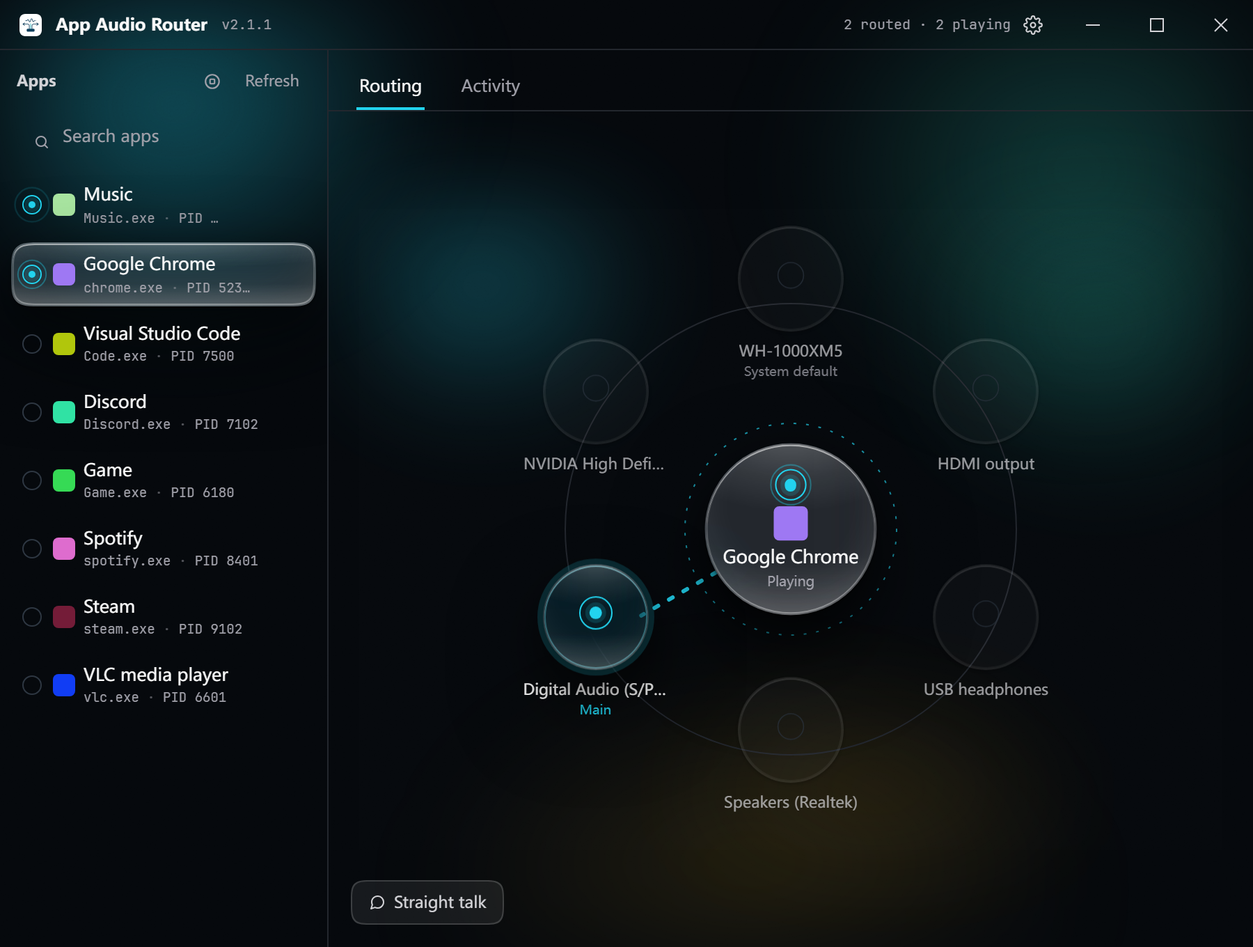
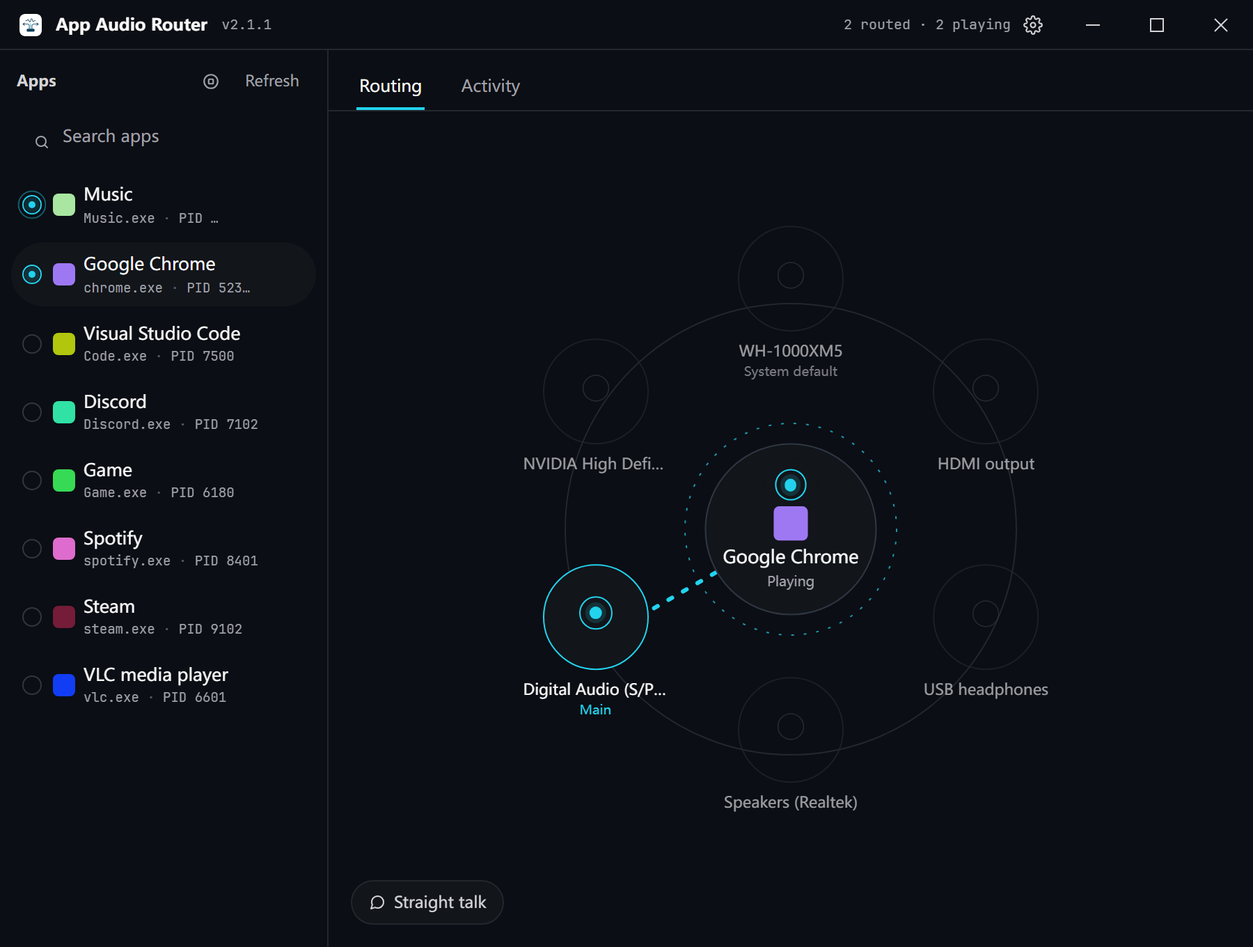
docs: describe the flat material; recapture screenshots
AGENTS.md now documents solid panels + hairlines + the one float
shadow and warns against re-introducing the glass; both READMEs
drop the glass wording and carry fresh light/dark captures.

diff --git a/AGENTS.md b/AGENTS.md
@@ -56,14 +56,14 @@ AppAudioRouter/
 │   ├── main.tsx
 │   ├── App.tsx
 │   ├── components/         # UI 组件
-│   │   ├── ConcentricStage.tsx   # 同心圆舞台，也是路由唯一被表达的地方：中心是被选中的那个程序（Hub），每台输出设备一枚环绕它的玻璃圆盘（Satellite），每枚参与路由的圆盘与中心之间一根辐条；内含 Tuner（副本=延迟+份额两行，主输出=会话音量一行）
+│   │   ├── ConcentricStage.tsx   # 同心圆舞台，也是路由唯一被表达的地方：中心是被选中的那个程序（Hub），每台输出设备一枚环绕它的圆盘（Satellite），每枚参与路由的圆盘与中心之间一根辐条；内含 Tuner（副本=延迟+份额两行，主输出=会话音量一行）
 │   │   ├── ProgramRail.tsx       # 左栏程序列表：每行一个正在出声的程序，行末那颗圆形开关「同时更改此程序的输出」取代了 Ctrl+点击
 │   │   ├── StatusBriefing.tsx    # 「直说」按钮 + 现状气泡：点一下就用大白话说清此刻每个程序从哪儿出声；按钮的完整名字放自制的 ui/Tooltip
 │   │   ├── SourceLevelDial.tsx   # 中心圆盘下方的每程序电平环（0–400 %，套 ScrubReadout 的 lead 槽画环），只在多设备路由时挂载
 │   │   ├── Toast.tsx             # 瞬态提示：路由后提供「撤销」（全项目唯一的撤销入口）
 │   │   ├── SettingsPage.tsx      # 设置独立页面（主题/语言/路由开关/已记忆路由列表/每应用音频重置/后台开关/延迟范围·步进/一键对齐/关于）
 │   │   ├── LogPanel.tsx          # 活动记录（下划线标签页的第二页）
-│   │   ├── TitleBar.tsx    # 自定义标题栏（透明，极光从它底下过：品牌 + 「已路由 · 播放中」计数 + 设置入口 + 窗口控制）
+│   │   ├── TitleBar.tsx    # 自定义标题栏（透明，舞台从它底下过：品牌 + 「已路由 · 播放中」计数 + 设置入口 + 窗口控制）
 │   │   ├── StartupNoticeDialog.tsx  # 启动提示弹窗（欢迎语 / 旧版本提示 + 就地重置）
 │   │   └── ui/             # 基础控件
 │   │       ├── Ring.tsx                # 同心圆指示器：外环说"它是什么"，内芯说"它在不正在响"；全项目共用这一枚
@@ -73,7 +73,7 @@ AppAudioRouter/
 │   │       ├── SegmentedControl.tsx    # 下划线式分段控件（不是胶囊，也不是 pill track）
 │   │       ├── ScrubReadout.tsx        # 通用「数值即控件」（拖动/滚轮/方向键/键入），电平环在用；lead 槽可在数字前挂一个跟随预览值的图形
 │   │       ├── StepButton.tsx          # 方形 ± 按钮（h-6 w-6，仅设置页在用）
-│   │       ├── Tooltip.tsx             # 自制 tooltip（native `title` 迟、不可样式化、测试不可见）：悬停/聚焦稍作停留即出现；实体底，不走 backdrop-filter
+│   │       ├── Tooltip.tsx             # 自制 tooltip（native `title` 迟、不可样式化、测试不可见）：悬停/聚焦稍作停留即出现；实体底
 │   │       ├── ConfirmButton.tsx       # 二次确认按钮（先「确认？」再执行；Escape/失焦/超时解除）
 │   │       └── DelayStepper.tsx        # 设置页的延迟行控件（−/数值/+ 方框样式）
 │   ├── hooks/              # 自定义 hooks
@@ -81,7 +81,6 @@ AppAudioRouter/
 │   │   ├── useLanguage.ts
 │   │   ├── useDelayValue.ts  # 延迟编辑状态（草稿/提交/步进），两个延迟控件共用
 │   │   ├── useLiveness.ts    # 声流闸门：窗口可见 + 持有焦点 + 未要求减少动效；三者任一不满足返回 false
-│   │   ├── useGlassSpecular.ts # 玻璃高光跟指针：一个委托 pointermove 写 --gx/--gy 到悬停的面板
 │   │   └── useBackendEvent.ts # 后端事件订阅（StrictMode 安全的 token 交接），四个事件共用
 │   ├── stores/             # 状态管理
 │   │   └── routerStore.ts  # Zustand store
@@ -339,42 +338,27 @@ AppAudioRouter/
 - 主题切换通过 `document.documentElement.classList.toggle('dark')`
 - 持久化用户偏好到 `localStorage` + 跟随系统初始值
 - 色板为青色（cyan）信号色，不用靛紫/紫罗兰；改色时 `:root` / `.dark` 两份定义与 `--*-rgb` 镜像通道必须一起改（`--bg-primary` / `--text-primary` 还在 `index.html` 里各有一份首帧内联副本，也要同步）
-- **这套界面是液态玻璃做的**：程序行、舞台上的圆盘与枢纽、现状气泡、Toast、弹窗，凡是"浮起来"的东西都穿 `--glass*`
-  那一组令牌。液态玻璃 = 一块**厚透镜**，不是磨砂片：它保持通透（填充 alpha 很低，靠 `--glass-filter` 的 blur+saturate+brightness 折射背后的光）、
-  顶部有一枚**紧而亮的高光**（光源的镜面反射，`--glass-specular*` 的第一层 radial）、底部有一道**焦散亮线**与** trapped 在内部的光池**
-  （`--glass-specular*` 的第二层 + `--glass-rim*` 的 inset 底部两条）、**整圈 rim catch 一条细亮边**（`--glass-rim*` 的 `inset 0 0 0 1px`），
-  再加**分层影子**（`--glass-shadow` = 接触/中层/环境）。这四件——高光、焦散+光池、rim、分层影——缺一件就退回磨砂塑料；
-  一团均匀 alpha 填充 + 一团均匀软影就是贴纸。lit discs 的 inline `box-shadow` 引 `--glass-rim` / `--glass-shadow` 这两个令牌，别各写一份。
-  **第二种厚度是同一种玻璃的薄片**（`.glass-thin`）：没接线的设备圆盘、没有计划的中心枢纽用更少的填充、更淡的 rim、只留接触影，
-  贴着表面；于是"厚而亮的透镜"这个语义只留给正在生效的东西。别把 idle 也改成 `.glass-strong`。
-  ⚠ **`backdrop-filter` 底下必须有东西可折射**：App 根节点那层 `.aurora`（三个推到失焦之外的光池）存在的唯一理由就是这个——
-  对着一块纯色做模糊，出来的是磨砂塑料。光池要**保持分离**（尺寸/位置见 `.aurora`）：糊成整片均匀渐变后，每块玻璃折射到的颜色都一样，折射就没了。
-  极光**静止**（画一次，永不重绘）：它可以存在，但它不许动。极光上另覆一层**静态颗粒**（`.grain`，overlay 混合）——
-  这么平滑的渐变不带颗粒就是矢量渐变，矢量渐变读起来就是塑料；颗粒只调制底下的光，自己不动。
-- **低配档（`html.glass-lite`，2026-10-04 起）**：同一块玻璃**去掉折射**的档位。判定与开关在 `lib/glassLite.ts`：
-  `aar-glass-lite`（localStorage）存用户的显式选择；没有选择时，弱硬件（`hardwareConcurrency ≤ 4` 或 `deviceMemory ≤ 4`）
-  或 Windows 关闭「透明效果」（`prefers-reduced-transparency`）**自动启用**。`index.html` 的启动脚本在**首帧之前**就把类套上
-  （与主题同一条规矩：不许先画一帧模糊再变实底），它和 TS 侧是两份逻辑，改判定必须两处同步。
-  - 档位的内容只有三件事：`--glass-filter` 归 `none`（亮/暗两份覆盖令牌在 `styles/index.css`）、`--glass-shadow` 少一层环境影、
-    高光**不再跟指针**（`useGlassSpecular` 逐事件读 `isGlassLite()`，所以运行中切换立即生效）。填充换成**近实底**，
-    由它接替 blur 保住可读性——面板读作实心亚克力，rim 与 specular 留着（渐变和 inset 阴影是涂画，不是采样，不花钱）。
-  - ⚠ **玻璃的大头就是 `backdrop-filter`**：它每帧重采样面板背后的所有内容，任何盖在玻璃上的动画都在付这笔钱。
-    往低配档里留一个"小一点的 blur"没有意义（没有便宜的 blur）；同理**禁止在组件里手写 `backdrop-blur-*`**
-    （Tailwind 工具类绕过令牌，低配档管不住它）——所有玻璃面必须走 `.glass*` 类。
+- **这套界面是平的**（2026-10-05 起）：所有面板都是**实底 + 1px 细线**，没有 blur、没有渐变、没有辉光。
+  分层全靠三样东西：`--hairline`（贴着底色的分隔）、`--hairline-strong`（浮起面板的描边）、`--shadow-float`
+  （全项目唯一允许的阴影：一层接触影 + 一层环境影，只给真正浮在页面之上的东西——Toast、现状气泡、弹窗、舞台上的圆盘）。
+  与页面齐平的面板（左栏的行、设置页的纸）**没有阴影**——分隔是细线的职责。
+  **没接东西的圆盘与没有计划的中心枢纽是纯描边**（`border border-line`，无填充无影）——「没接」画得更彻底了，
+  实底面板这个语义只留给正在生效的东西。曾经的那套液态玻璃（`--glass*` 令牌、`.glass*` 类、`.aurora`、`.grain`、
+  `useGlassSpecular` 指针高光、glass-lite 低配档）已于今天整体退役，**别再搬回来**：
+  它最吃执行，差一点就从「透镜」滑向「塑料贴纸」，而 `backdrop-filter` 的重采样成本还永远挂在 GPU 上。
 - **角色三色**（`--type-*`）只属于舞台：**同一个颜色画三处**（圆盘上的环 / 到它的辐条 / 角色词），所以它们没有 `-hover` 之类的变体，
-  也不许拿去给别的东西上色。三种角色就是全部，**没有"已选未应用"那一色**：那个区别由中心圆自己承担——待生效时它是一枚带「点按生效」胶囊的按钮，已经是事实时它退回一块普通玻璃。
-- **圆角是阶梯，不是随手取的数**（`tailwind.config.ts` 的 `borderRadius`）：`window 40 → panel 32 → card 26 → ctl 20 → seg 17`。
-  相邻两级的差 ≈ 它们之间的内边距，这才是"连续曲率"读起来连续的原因；层级务必取自这一串值（容器大、控件小），别在调用点写 `rounded-[13px]`。
+  也不许拿去给别的东西上色。三种角色就是全部，**没有"已选未应用"那一色**：那个区别由中心圆自己承担——待生效时它是一枚带「点按生效」胶囊的按钮，已经是事实时它退回一块普通面板。
+- **圆角是阶梯，不是随手取的数**（`tailwind.config.ts` 的 `borderRadius`）：`window 16 → panel 14 → card 12 → ctl 10 → seg 8`。
+  层级务必取自这一串值（容器大、控件小），别在调用点写 `rounded-[13px]`。
   阶梯只管**停着的矩形平面**（设置页的纸、弹窗）。**浮起来的小控件是胶囊或真圆**：toast、rail 的选中与搜索、「直说」按钮一律 `rounded-full`；
-  现状气泡是浮起来的**多行面板**，走 card 级圆角（`rounded-[26px]`）。
-  同心圆家族（hub、设备圆盘）是**真圆**——`rounded-full` 且**不加** `.squircle`，因为 `corner-shape: squircle` 会把满半径渲染成超椭圆（圆角方块），
-  一整圈方块站在圆轨道上会把"同心圆"读成"方块摆成圈"。`.squircle` 只留给矩形平面做连续曲率，不支持时退化成普通圆角。
+  现状气泡是浮起来的**多行面板**，走 card 级圆角（`rounded-card`）。
+  同心圆家族（hub、设备圆盘）是**真圆**——一律 `rounded-full`，任何超椭圆/圆角方块的形状都会把"同心圆"读成"方块摆成圈"。
 - `.con-ring*` 是同心圆指示器的一族：外环（描边）说"它是什么"，`::after` 的内芯说"它在不正在响"，中间那一圈什么都不画是必须的——
   没有那圈空就读不出同心，变成一个点加一块糊掉的东西。`-live::before` 那圈扩散同样是**有信息**的循环，因此与辐条一样必须走 `useLiveness` 闸门。
 
 ```css
 :root {
-  --bg-primary: #e4eaf1;      /* 窗口那层底：所有玻璃浮在它上面 */
+  --bg-primary: #eef0f3;      /* 窗口那层底：所有面板浮在它上面 */
   --bg-tertiary: #e8e8ec;
   --text-primary: #18181b;
   --text-secondary: #3f3f46;
@@ -393,25 +377,9 @@ AppAudioRouter/
   --hairline: #e6e6ea;        /* 行与行、块与块之间的分隔 */
   --hairline-strong: #d4d4da;
 
-  /* 液态玻璃：低 alpha 通透填充 + blur/saturate/brightness 折射 + 顶部紧高光与底部焦散
-     （--glass-specular）+ 整圈 rim/顶部热线/底部焦散线/内部光池（--glass-rim）+ 三层影子。
-     亮色下填充 30%，strong 42%。 */
-  --glass: rgba(255, 255, 255, 0.3);
-  --glass-strong: rgba(255, 255, 255, 0.42);
-  --glass-border: rgba(255, 255, 255, 0.5);
-  --glass-specular: radial-gradient(140% 90% at 50% -18%, rgba(255,255,255,.6), rgba(255,255,255,.14) 42%, rgba(255,255,255,0) 64%), linear-gradient(0deg, rgba(255,255,255,.28), rgba(255,255,255,0) 34%);
-  --glass-rim: inset 0 0 0 1px rgba(255,255,255,.4), inset 0 1px 0 rgba(255,255,255,.9), inset 0 -1px 0 rgba(255,255,255,.55), inset 0 -16px 30px -16px rgba(255,255,255,.5);
-  --glass-shadow: 0 1px 2px rgba(24,40,66,.12), 0 8px 24px rgba(24,40,66,.14), 0 24px 60px rgba(24,40,66,.14);
-  --glass-filter: blur(18px) saturate(190%) brightness(1.05);
-  /* 同一种玻璃的薄片（idle 圆盘、无计划的枢纽）。 */
-  --glass-thin-bg: rgba(255, 255, 255, 0.16);
-  --glass-thin-rim: inset 0 0 0 1px rgba(255,255,255,.3), inset 0 1px 0 rgba(255,255,255,.5);
-  --grain-alpha: 0.04;        /* 覆在极光上的静态颗粒 */
-
-  /* 给玻璃折射的光。三个保持分离的光池（糊成一片折射就没了），静态。 */
-  --spot-1: rgba(34, 211, 238, 0.48);
-  --spot-2: rgba(45, 212, 191, 0.36);
-  --spot-3: rgba(251, 191, 36, 0.26);
+  /* 全项目唯一允许的阴影：只给真正浮在页面之上的东西
+     （Toast、现状气泡、弹窗、舞台圆盘）；与页面齐平的面板没有阴影。 */
+  --shadow-float: 0 1px 2px rgba(24, 40, 66, 0.06), 0 8px 24px rgba(24, 40, 66, 0.1);
 
   /* 舞台上的三种角色（只有这三种，没有第四种）。 */
   --type-primary: #0891b2;
@@ -429,7 +397,7 @@ AppAudioRouter/
   --type-idle-rgb: 148 163 184;
 }
 .dark {
-  --bg-primary: #05080c;
+  --bg-primary: #0b0e14;
   --bg-tertiary: #27272a;
   --text-primary: #fafafa;
   --text-secondary: #d4d4d8;
@@ -448,23 +416,8 @@ AppAudioRouter/
   --hairline: #23272e;
   --hairline-strong: #2e3742;
 
-  /* 暗色下的同一块透镜：填充几乎不加白，玻璃完全靠它catch的光读出来——更冷更紧的顶部
-     高光、底部焦散与内部光池、整圈 rim；否则面板就是一块比背景略亮的灰矩形。 */
-  --glass: rgba(255, 255, 255, 0.07);
-  --glass-strong: rgba(255, 255, 255, 0.12);
-  --glass-border: rgba(255, 255, 255, 0.16);
-  --glass-specular: radial-gradient(140% 90% at 50% -18%, rgba(255,255,255,.22), rgba(255,255,255,.06) 42%, rgba(255,255,255,0) 64%), linear-gradient(0deg, rgba(255,255,255,.1), rgba(255,255,255,0) 34%);
-  --glass-rim: inset 0 0 0 1px rgba(255,255,255,.14), inset 0 1px 0 rgba(255,255,255,.35), inset 0 -1px 0 rgba(255,255,255,.16), inset 0 -16px 30px -16px rgba(255,255,255,.14);
-  --glass-shadow: 0 1px 2px rgba(0,0,0,.5), 0 10px 28px rgba(0,0,0,.45), 0 28px 64px rgba(0,0,0,.5);
-  --glass-filter: blur(18px) saturate(180%);
-  --glass-thin-bg: rgba(255, 255, 255, 0.04);
-  --glass-thin-rim: inset 0 0 0 1px rgba(255,255,255,.08), inset 0 1px 0 rgba(255,255,255,.12);
-  --grain-alpha: 0.06;
-
-  /* 同一批光池，冷却并分离：amber 压低，否则在近黑底上它把青色洗成橄榄色。 */
-  --spot-1: rgba(34, 211, 238, 0.4);
-  --spot-2: rgba(45, 212, 191, 0.26);
-  --spot-3: rgba(251, 191, 36, 0.13);
+  /* 同一枚影子，加深：近黑底上靠环境影托起浮层。 */
+  --shadow-float: 0 1px 2px rgba(0, 0, 0, 0.45), 0 8px 24px rgba(0, 0, 0, 0.35);
 
   --type-primary: #22d3ee;
   --type-mirror: #14b8a6;
@@ -486,11 +439,11 @@ AppAudioRouter/
 
 ## 同心圆舞台 UI 规范（2026-10-03 改版，改动前必读）
 
-路由页是一张**同心圆舞台**：**中心是那个程序**（`Hub`），**每台输出设备是环绕它的一枚玻璃圆盘**（`Satellite`），
+路由页是一张**同心圆舞台**：**中心是那个程序**（`Hub`），**每台输出设备是环绕它的一枚圆盘**（`Satellite`），
 中心轮缘到某枚亮起的圆盘轮缘之间那根辐条**就是**路由的这一段。这一屏回答的是「**这个程序的声音正往哪儿去**」——
 亮起的那些圆盘本身就是答案，眼睛不必先读完一行列头才知道自己在看什么。
 
-视觉语言是**液态玻璃 + 连续曲率圆角 + 同心圆**（`.glass` / `.squircle` / `Ring`；令牌见「主题系统」）。
+视觉语言是**实底面板 + 1px 细线 + 同心圆**（`Ring`；令牌与阴影见「主题系统」）。
 同心圆不是装饰，它是这套界面的字母：**外环说「它是什么」**（系统直放 / 副本 / 没参与），**内芯说「它在不正在响」**，
 两者之间那一圈必须留空——没有那圈空就读不出同心，变成"一个点加一块糊掉的东西"。
 整张舞台的词汇量就这么多，剩下的交给位置、中心那一枚按钮和左下角那句大白话。
@@ -518,7 +471,7 @@ AppAudioRouter/
   配了延迟时角色词当场落在真正会坐主位的那台上——预览不许说谎。中心圆的 `aria-label`（`stage.applyAria*`）与 `alreadyApplied`
   （`lib/stage.ts`，有单测）读的是同一份顺序；一个被延迟序盖过的点击顺序没有自己的计划可画，也就不构成"未应用的改动"。
 - ⚠ **舞台不许自称计划是事实**，也不许给"已选未应用"发明第四种颜色：那个区别由**中心圆自己**承担——
-  待生效时它是一枚按下去会落地的按钮（带「点按生效」胶囊与 hover 外环），已经是事实时它退回一块普通玻璃、不可按。
+  待生效时它是一枚按下去会落地的按钮（带「点按生效」胶囊与 hover 外环），已经是事实时它退回一块普通面板、不可按。
   把两套真相塞进同一枚环的颜色里，用户没有义务猜哪个是真的。
 - **辐条只在三者重合时流动**：画出来的 == 正在生效的（`drawn` 与 `live` 等长同序）&& 程序在响 && `useLiveness()` 放行。
 
@@ -546,10 +499,9 @@ AppAudioRouter/
   同理 `--type-*` 都有 `-rgb` 镜像通道，透明修饰符（`bg-type-primary/[0.07]`）才有输出。
 - `primary` = accent：accent 本来就是"属于路由的那部分"的记号。
 - `mirror` = accent 的**邻近色相**（teal），不是第二个 accent：它和 primary 是同一件事的两半，两个不相干的颜色会说它们不相干。
-- `idle` = slate，**既不上底纹也不发辉光，也没有辐条**——硬件没有接到任何东西，画"没接"的办法就是什么都不画。
-  材料上它是**同一种玻璃的薄片**（`.glass-thin`，见「主题系统」）：更通透、rim 更淡、只留接触影，贴着表面；
-  因为"厚而亮的透镜"这个语义只留给正在生效的圆盘。同一个道理，没有计划的中心枢纽也是薄片，有了计划才浮成 `.glass-strong`。
-- `bloom(role)` 走 inline style 而不是工具类：辉光色必须从主题通道取（跟着亮/暗两套走），而它只是一个属性，不是一种值得命名的形状。
+- `idle` = slate，**不上底色、没有描边色、也没有辐条**——硬件没有接到任何东西，画"没接"的办法就是什么都不画。
+  材料上它是**一枚纯描边的空圆**（`border border-line`，无填充无影，见「主题系统」）；
+  实底面板这个语义只留给正在生效的圆盘。同一个道理，没有计划的中心枢纽也是纯描边，有了计划才浮成实底面板。
 
 ### 圆盘（`Satellite`）
 
@@ -580,9 +532,6 @@ AppAudioRouter/
 - **按压是弹性形变，不是等比缩放**：圆盘与中心圆按下时 `scaleX` 涨 / `scaleY` 压（一滴液体被按扁），松手弹回真圆；等比缩小读起来像贴纸被揭起来。
 - **同心圆涟漪**：按下某枚圆盘时从它发出一圈与它同心的环，扩到约 2.2 倍并淡出（`RIPPLE`，tween 不走 spring——波是离开的，不该回弹）。
   一次性、按一次发一次，**不是常驻循环**；没改变任何事的按（路由只剩一台时点它）不发涟漪。
-- **玻璃的高光跟着指针走**：`useGlassSpecular()` 用一个委托 `pointermove` 把悬停面板的局部指针位置写进 `--gx/--gy`，
-  `--glass-specular` 的那枚 radial 就放在那里——透镜catch移动的光源，这是液态玻璃区别于"贴了一张高光贴图"的关键。
-  指针离开即复位回顶部；`prefers-reduced-motion` 下根本不挂监听（滑动的高光是动效）。
 
 - **圆盘从中心抵达**：`Satellite` 的入场是 `approach(index, count)`（从中心沿自身方位角退回 34% 处）+ 按 index 逐个延迟（封顶 0.24s）——
   环是**顺时针组装出来的**，不是整圈同时闪现。只有首次挂载播放：设备热插拔时只有新盘子动。
@@ -601,7 +550,7 @@ AppAudioRouter/
   副本的延迟/音量数值用 `mode="popLayout"` 纵向滚动。句子被原地改写没人会重读。
 - **hub 外圈虚线环**（`HUB_HALO_R`）：空闲时 hairline，有计划时换 accent 色——两层圆交叉淡入而不是动画颜色（颜色插值会脱离主题令牌）。
 - **空闲圆盘退后**：`animate` 的 opacity 目标是 `lit ? 1 : 0.72`，悬停任何圆盘都补足到 1 并放大 1.05；悬停还有一圈 `border-accent/45` 的外环以 opacity 淡入（不动阴影）。
-- **左栏选中是一块会滑的玻璃**：`layoutId="rail-selection"` 挂在 subject 行的高亮上，换选时整块玻璃滑过去；加入批量的行用静态 `bg-accent/[0.07]`。
+- **左栏选中是一块会滑的实底**：`layoutId="rail-selection"` 挂在 subject 行的高亮上，换选时整块面板滑过去；加入批量的行用静态 `bg-accent/[0.07]`。
   行本身带 `layout`——程序开始/停止发声、路由排序变化时，行**移动**到新位置而不是重画。
 - ⚠ 两条硬线不变：**唯一的常驻循环仍是声流虚线与在响的脉冲环**，且仍被 `useLiveness` 看住；入场/悬停动效交给 `MotionConfig reducedMotion="user"`。
   给中心圆、圆盘、± 按钮加的 `whileTap`/`whileHover` 一律用共享曲线，不许在调用点现调。
@@ -633,14 +582,14 @@ AppAudioRouter/
 
 ### 中心（`Hub`）＝应用按钮（2026-10-04 起）
 
-一枚 `HUB_D` 的大玻璃圆盘：里面是一枚 `Ring`（有计划时 `main`，否则 `idle`）+ 程序名 + 一行"正在播放 / 未在播放"。
+一枚 `HUB_D` 的大圆盘（实底面板）：里面是一枚 `Ring`（有计划时 `main`，否则 `idle`）+ 程序名 + 一行"正在播放 / 未在播放"。
 **有改动待生效时它就是按钮**：按下走 `applyRoute()`，与原 Apply 同一套守卫（空计划 / 空选择 / `applying` 中都不动）。
 `data-source-node` 挂在 button 上（e2e 的 `hub(page)` 就是这枚按钮）；`SourceLevelDial`（每程序电平环）只在 `drawn.length > 1`
 时挂上来——与副本那组按钮是同一条规则：单设备路由没有引擎，电平环在 button **外**，控件里不能嵌控件。
 
 - **待生效的 affordance**：`alreadyApplied`（`lib/stage.ts`）判 false 时——rim 上斜挂一枚 accent「点按生效」胶囊
   （`stage.applyHint`，`pointer-events-none`、绝对定位所以不推动布局）、hover 出一圈与圆盘同款的外环、
-  按压走与原 Apply 同一个压扁手势。已经是事实（或没选程序）时 `disabled`，胶囊消失、退回普通玻璃标签——
+  按压走与原 Apply 同一个压扁手势。已经是事实（或没选程序）时 `disabled`，胶囊消失、退回普通面板标签——
   "你正在看着答案，不该再问你一遍"。
 - **`aria-label` 是完整的句子**（`stage.applyAriaOne` / `applyAriaMany`）：屏幕阅读器听到的不少于原 dock 那句话。
   不可按时省略 `aria-label`，读程序名即可。
@@ -650,7 +599,7 @@ AppAudioRouter/
 
 ### 现状气泡（`StatusBriefing`）
 
-工作区左下角 `absolute bottom-4 left-4` 的「直说」小胶囊（原 dock 的角落）：点一下弹出玻璃气泡，
+工作区左下角 `absolute bottom-4 left-4` 的「直说」小胶囊（原 dock 的角落）：点一下弹出一个实底气泡，
 用大白话说清**此刻**的播放情况——只报告，不操作。
 
 - 内容一行一程序（`briefing.routeOne` / `routeMulti`，设备名列表用 `Intl.ListFormat` 按当前语言连接），
@@ -659,14 +608,14 @@ AppAudioRouter/
 - ⚠ **它是「路由摘要」禁令的按需例外**：常驻的第二份路由表达（树、状态条、文字摘要）仍然禁止——气泡只在被问时出现，
   问的是"现状"，不是替舞台再画一遍路由。
 - 按钮的完整名字（"让我用最直白、最简单、最不绕弯子的方式来告诉你现状"）放**自制的 `ui/Tooltip`**：
-  native `title` 迟、不可样式化、测试不可见；tooltip 是实体底（不走 `backdrop-filter`），气泡打开时 tooltip 让位。
+  native `title` 迟、不可样式化、测试不可见；tooltip 是实体底，气泡打开时 tooltip 让位。
 - ⚠ **`Escape` 与 `pointerdown` 的监听跟着气泡的可见性注册与注销**：常驻注册会把整个窗口的 Escape 全吞掉，
   搜索框按 Esc 清空就失效（这个 bug 出现过，由 e2e 抓出）。规矩从 dock 时代原样继承，只是锚点换了组件。
 
 ### 左栏（`ProgramRail`）
 
 - 每行：一枚 `Ring`（有路由是 `main`，在响且闸门放行时挂 `live`）+ 程序名 + 第二行 `PID xxx`（**只有已路由的行**才追加 `· 设备名 +n`）。
-  行与行之间**没有 hairline**——靠自己的形状与留白就够分隔；选中态是整行变成 `glass-strong`。
+  行与行之间**没有 hairline**——靠自己的形状与留白就够分隔；选中态是整行变成 `bg-surface`。
 - **`MiniToggle` 取代 Ctrl+点击**：行末那颗圆形小开关写着"同时更改此程序的输出"，**看得见的功能才算存在**。
   Ctrl/Cmd + 点击名称仍然做同一件事，但没有任何东西依赖用户知道那个修饰键。
 - 排序：已路由的排到最前，组内保持枚举顺序（**稳定**排序）——否则行会在每次刷新时互相换位，鼠标底下的目标就跑了。
@@ -675,7 +624,7 @@ AppAudioRouter/
 
 ### 布局与其余规矩
 
-- `App` 根节点 `relative isolate` + 一层 `.aurora`（`-z-10`，静态），**标题栏透明**——它是同一扇窗的一部分，不是贴在窗上的一块。
+- `App` 根节点 `relative isolate`，背景就是 `--bg-primary` 那层纯色平面，**标题栏透明**——它是同一扇窗的一部分，不是贴在窗上的一块。
   下面是 `aside`（236px + `border-r border-line`）＋ `main`（`relative`，给现状气泡一个锚点）＋ `UnderlineTabs`（Routing / Activity）。
   标签页下划线用 `layoutId` 迁移，**不是胶囊**。
 - **路由只由舞台表达**：辐条就是路由。**别在别处再画第二份**（树、状态条、常驻的文字摘要）——同一件事说两遍会像两套状态
@@ -690,7 +639,7 @@ AppAudioRouter/
   句子说人话，避开"路由 / 镜像 / 主设备"这类内部词（`briefing.routeOne` 是「「{{process}}」现在只从 {{device}} 出声。」，而不是"该进程已镜像至 X"）。
 - **禁止**：胶囊状的**标签页**（标签仍是下划线，`layoutId` 迁移——胶囊标签是上面那一版的反面；但浮动的**控件**是胶囊，见「圆角」）、
   常驻装饰循环（背景漂移、轨道环；**辐条流动与脉冲环是唯二的例外，且必须走卸载式闸门**）、舞台的拖动·平移·缩放、第二份路由摘要、
-  把延迟/音量画到主设备上（包括"变淡地画"）、给"待确认"发明第四种颜色、给同心圆家族加 `.squircle`（会变成方块）。
+  把延迟/音量画到主设备上（包括"变淡地画"）、给"待确认"发明第四种颜色、给同心圆家族加任何非正圆的形状（会变成方块摆成圈）。
 - **动效**：全部取自 `lib/motion.ts`——`SPRING_TAP`（圆盘按压、行内的微交互）/ `FADE`（纯透明度入场）/
   `SPRING_GLIDE`（有位移的视图切换），**不要在调用点现调参数**：邻居之间弹得不一样看着像 bug，不像设计。
 
@@ -779,7 +728,7 @@ cd src-tauri && cargo clippy -- -D warnings
 - [ ] 开启「开机自动启动」后：注册表 `HKCU\...\Run` 有那一条、重启后只出现托盘图标不弹窗、开关状态仍与注册表一致
 - [ ] 单实例：程序已经在运行时再次启动它，只把已有窗口唤到前台，不出现第二个托盘图标，也不重复起一份复制引擎
 - [ ] 进程列表搜索：输入即时过滤，已路由的排在最前且组内顺序稳定；`Escape` 清空并失焦；无匹配时的提示与「没有进程在放音」不是同一句
-- [ ] 同心圆舞台：选中一个程序后它在中心（名字写在圆盘里），每台输出设备一枚环绕它的玻璃圆盘；参与路由的那几枚亮着并有辐条连到中心，**没参与的没有任何辐条也没有角色词**；设备名与角色词在圆盘**外面**，所以圆盘本身始终是整个可点的按钮
+- [ ] 同心圆舞台：选中一个程序后它在中心（名字写在圆盘里），每台输出设备一枚环绕它的圆盘；参与路由的那几枚亮着并有辐条连到中心，**没参与的没有任何辐条也没有角色词**；设备名与角色词在圆盘**外面**，所以圆盘本身始终是整个可点的按钮
 - [ ] 先替换、后追加：选中一个已路由的程序后**第一次**点另一台设备是替换（只输出到那一台），同一状态下再点别的才是追加成副本；路由里只剩一台时点它被忽略——**路由不可能被点成空的**
 - [ ] 换主输出：多设备计划中副本的角色词带点状下划线，悬停/聚焦出现「设为主输出」，点击后两枚圆盘的角色词当场对调、按下中心圆后后端收到以它为首的设备顺序；延迟补偿更大的副本悬停不出现动作且 `title` 说明原因；给副本调一个比主输出更小的延迟（可为负），主位当场换人——舞台角色词、中心圆 `aria-label`、落地顺序三处一致
 - [ ] 中心圆即应用：有改动待生效时它是一枚按钮（rim 上挂「点按生效」胶囊 + hover 外环，`aria-label` 是完整句子），按下即落地并给 Toast 撤销；画面已经是事实时它不可按（胶囊消失、`disabled`）；未选中程序时整个 hub 是提示不是按钮；丢弃已选改动 = 重新选中那个程序（计划被事实读回，不发任何 apply_route）
@@ -799,8 +748,7 @@ cd src-tauri && cargo clippy -- -D warnings
 - [ ] 撤销：改路由后撤销回到上一步；撤销一个原本未路由的进程 = 回到未路由；开了自动记忆时，**撤销之后重启该程序不会把撤掉的路由装回来**；手动停掉某条路由后 Toast 不再提供撤销
 - [ ] 误操作防护：左栏表头与每个已路由行里的「回到系统默认」都需二次确认（Escape / 失焦 / 超时解除）；Toast 退场时不吃掉紧接着的点击
 - [ ] `Escape` 不被任何常驻监听吞掉——**搜索框里的 `Escape` 仍然能清空搜索**（现状气泡与 Toast 的监听都跟着可见性注册与注销）
-- [ ] Light/Dark 切换流畅（玻璃两个主题：亮色填充 55% 白、暗色 5.5% 白）
-- [ ] 低配档：设置 → 外观里「降低玻璃特效」可开关并持久化（`aar-glass-lite`）；开启后任何 `.glass*` 面板的 `backdrop-filter` 计算值都是 `none`，高光不再跟指针，且运行中切换立即生效；用户没做过选择时，弱硬件（≤4 核 / ≤4GB）或系统关闭透明效果在**首帧之前**就已是低配档
+- [ ] Light/Dark 切换流畅（两个主题都是实底面板 + 细线，切换不闪帧）
 - [ ] 切页与下划线迁移流畅（60fps）；界面静止时（无程序在响、或窗口隐藏/失焦）不产生任何常驻重绘——辐条流动与脉冲环是唯二的主循环，且静止时被卸载
 - [ ] `pnpm tauri build` 产物可安装运行
 - [ ] 无第三方 exe 依赖

diff --git a/README.md b/README.md
@@ -78,7 +78,7 @@ The same stage in both themes: `chrome.exe` is the programme being looked at, so
 
 ### Interface and overhead
 
-- **A stage, not a form** — the process list is a sidebar, and the routing screen is a ring: the programme you picked sits at the centre with its name inside, every playback device is a glass disc around it, and a spoke from the centre to a lit disc *is* that part of the route. The first device of a route is the one Windows plays itself (accent); the devices after it are copies (teal), and a copy is the only place delay and level exist, because it is the only place there is a stream of ours to hold back or attenuate. Nothing takes effect until you click the circle in the middle, and nothing can leave a programme with nowhere to play — a ring always keeps at least one device lit. Devices no route touches get no spoke and no colour, which is most devices most of the time. A programme playing to several devices carries its own level as a ring under the hub, and the title bar keeps a quiet count — *2 routed · 2 playing*. Glass instead of cards, sentences instead of pills, monospaced figures for every value.
+- **A stage, not a form** — the process list is a sidebar, and the routing screen is a ring: the programme you picked sits at the centre with its name inside, every playback device is a disc around it, and a spoke from the centre to a lit disc *is* that part of the route. The first device of a route is the one Windows plays itself (accent); the devices after it are copies (teal), and a copy is the only place delay and level exist, because it is the only place there is a stream of ours to hold back or attenuate. Nothing takes effect until you click the circle in the middle, and nothing can leave a programme with nowhere to play — a ring always keeps at least one device lit. Devices no route touches get no spoke and no colour, which is most devices most of the time. A programme playing to several devices carries its own level as a ring under the hub, and the title bar keeps a quiet count — *2 routed · 2 playing*. Solid panels and hairlines instead of cards, sentences instead of pills, monospaced figures for every value.
 - **Process list search** — filter the list by name as you type, with the programs that are currently routed kept at the top so the one you are working with does not move under the cursor. `Escape` clears the search.
 - **Light and dark themes**, English and Simplified Chinese, both switchable from the title bar; the preferred theme and language are applied before the first frame paints, so there is no flash on startup.
 - **Low background cost** — the app never polls the audio engine. It registers for change notifications and re-reads the lists when Windows says something actually moved, and each re-read that turns up no visible change is not even logged. The interface has exactly two things that move on their own: the dash running along the spokes of a programme that is sounding, and the pulse on the ring beside a programme that is — only while the window is visible, focused and free of the system's reduced-motion request; hidden, unfocused or silent, everything stands still and nothing repaints. An active route is idle when its program is, too: a routed program that has produced no sound for a second and a half stops being fed to its mirrored devices, rather than having silence written at them a hundred times a second apiece.
@@ -198,7 +198,7 @@ Routing rules are keyed by **executable name**, not by PID, so a remembered rout
 AppAudioRouter/
 ├── src/                          # React frontend
 │   ├── components/
-│   │   ├── ConcentricStage.tsx   # the ring: the picked programme at the centre, one glass disc per device, one spoke per lit disc; the hub applies the plan
+│   │   ├── ConcentricStage.tsx   # the ring: the picked programme at the centre, one disc per device, one spoke per lit disc; the hub applies the plan
 │   │   ├── ProgramRail.tsx       # programmes with an audio session, and whether each one joins the change
 │   │   ├── StatusBriefing.tsx    # the "straight talk" pill: where sound is going, in plain words, on demand
 │   │   ├── SourceLevelDial.tsx   # a programme's own level, as a ring under the hub
